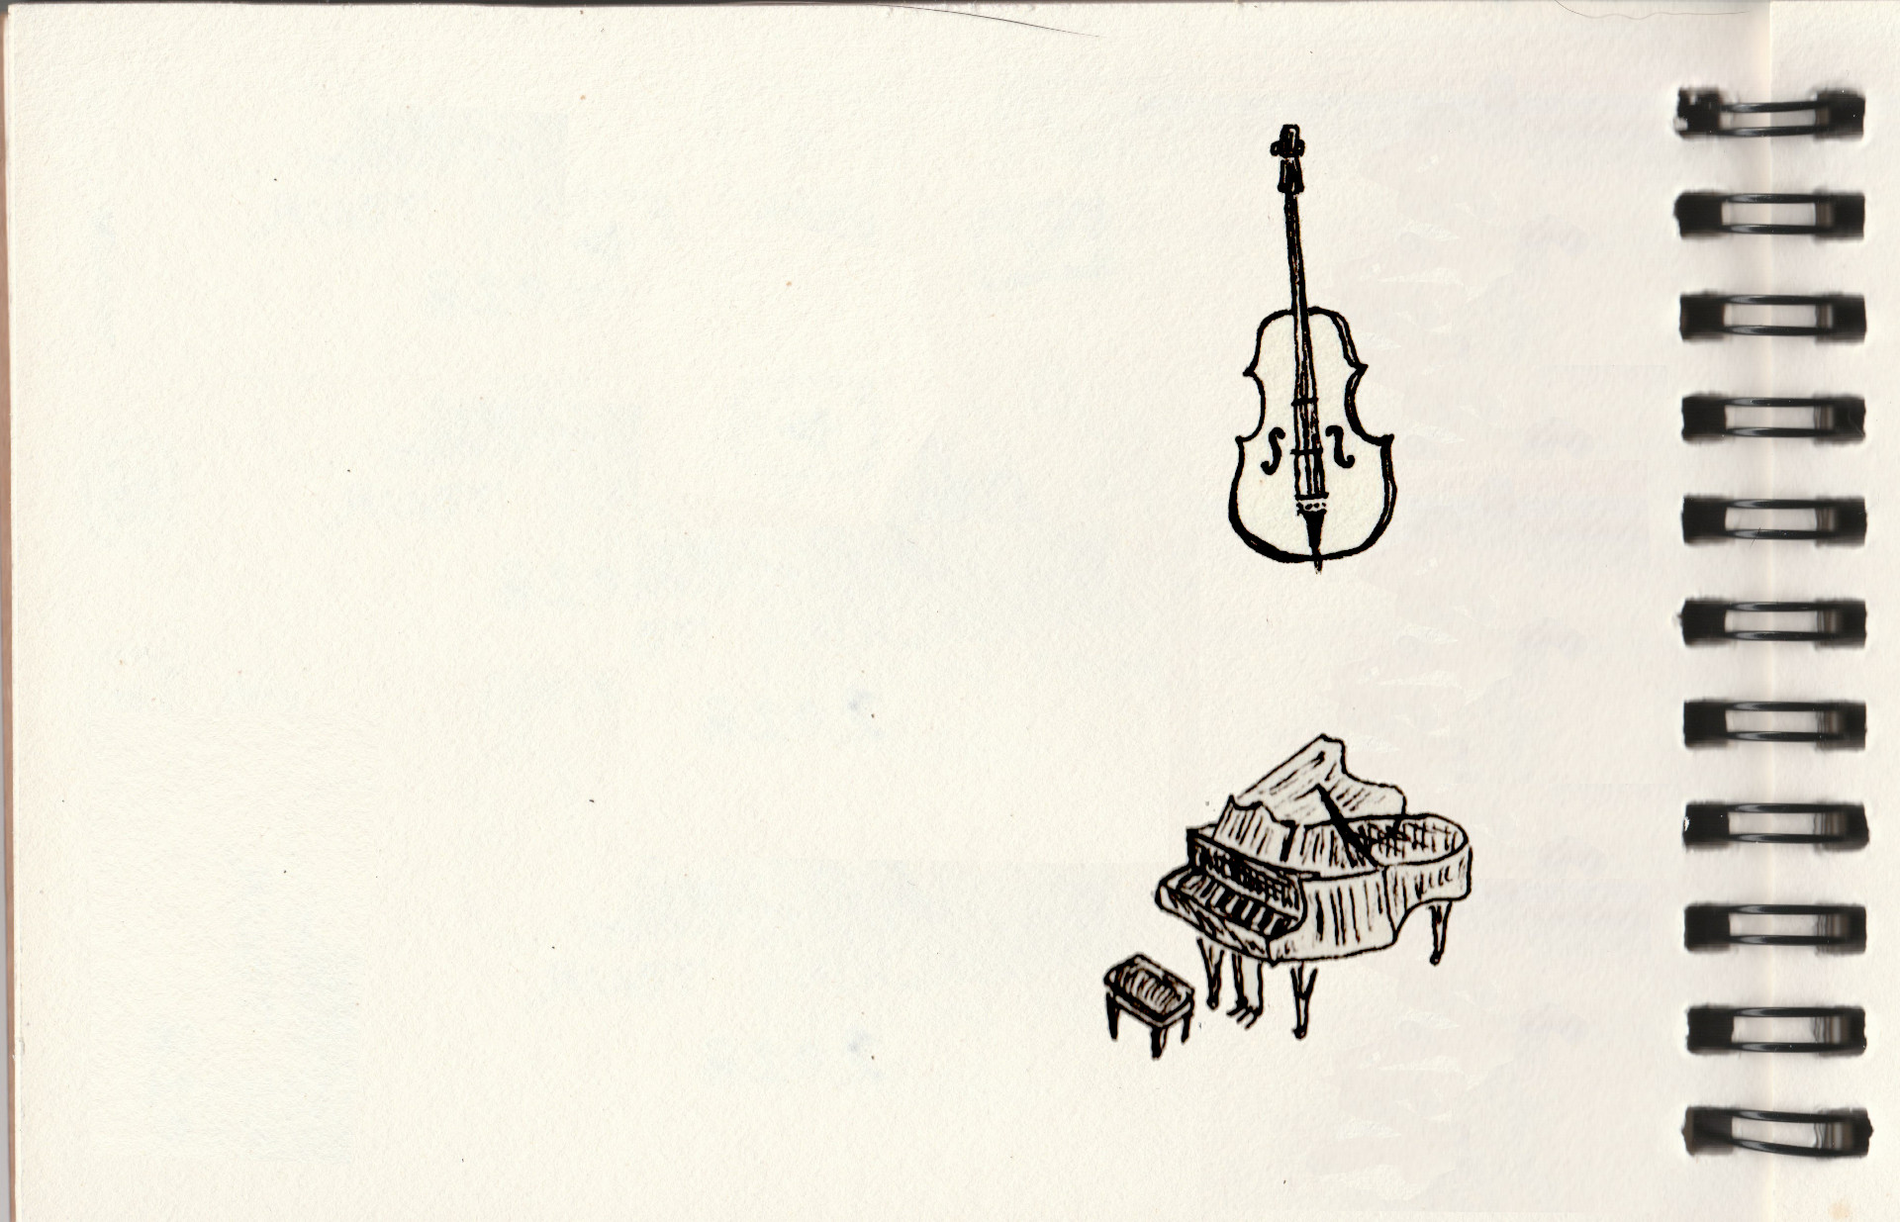
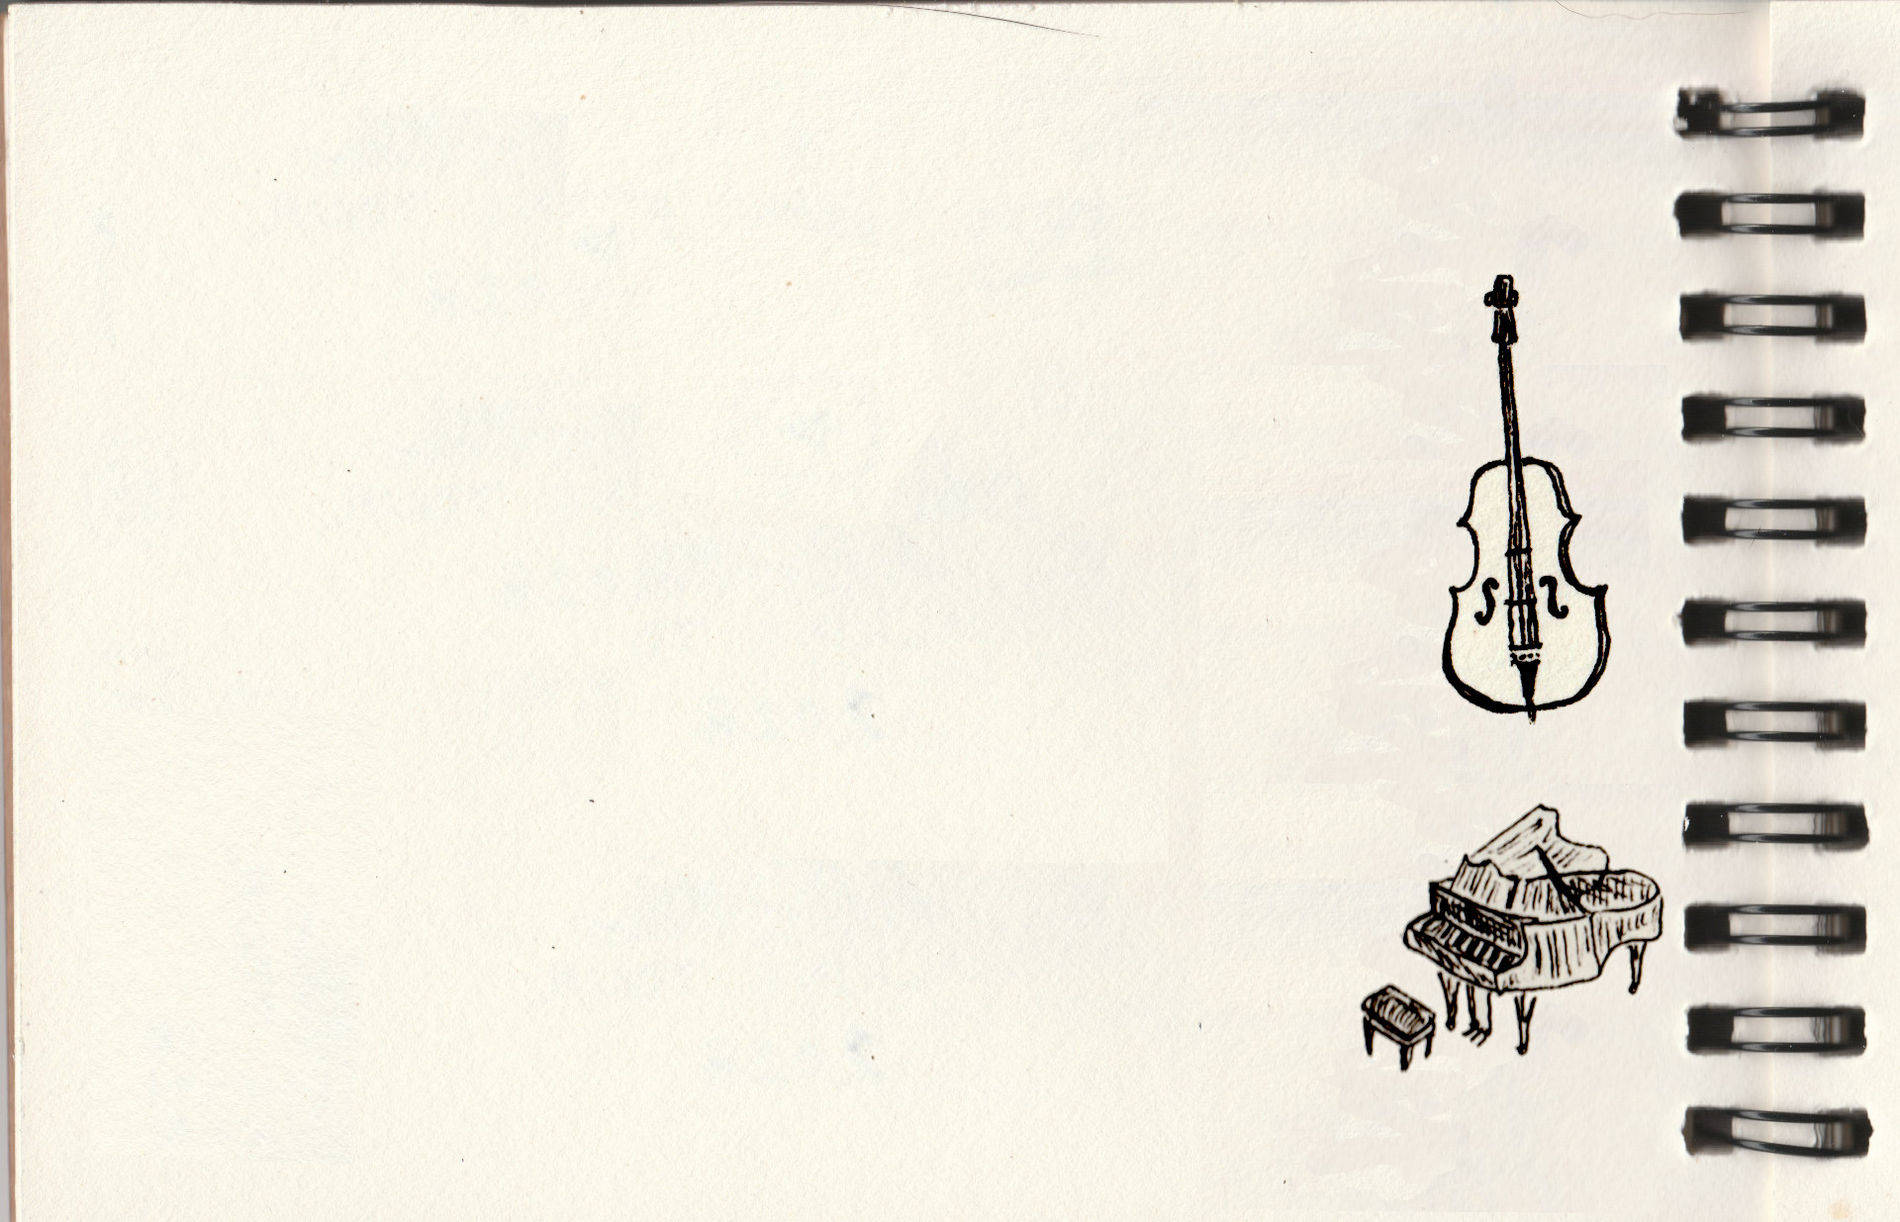
Add files via upload

Changed region(s): [[0.5625, 0.5846, 0.875, 0.8923], [0.625, 0.0923, 0.8438, 0.5846]]

diff --git a/WALKING-TOUR.html b/WALKING-TOUR.html
@@ -23,9 +23,11 @@ each concert will be curated to form a debut album.">
 
         <style>
 
-            @media only screen and (max-width: 1200px), (pointer: coarse) {body {background-image: url(NOTEBOOK.jpeg); background-position: center top; background-size: auto 100vh; background-repeat: repeat; background-attachment: scroll; overflow-x: hidden;}}
+            @media only screen and (max-width: 900px), (pointer: coarse) {body {width: 100vw; height: 100vh; background-image: url(NOTEBOOK.jpeg); background-position: center top; background-size: auto 100vh; background-repeat: repeat; background-attachment: scroll; overflow-x: hidden;}}
 
-            @media only screen and (min-width: 1200px) {body {background-image: url(NOTEBOOK.jpeg); background-position: center; background-size: contain; background-repeat: no-repeat; background-attachment: fixed;}}
+            @media only screen and (min-width: 900px) and (max-width: 1500px), (pointer: coarse) {body {width: 100vw; height: 100vh; background-image: url(NOTEBOOK.jpeg); background-position: center top; background-size: auto 100vh; background-repeat: repeat; background-attachment: scroll; overflow-x: hidden;}}
+
+            @media only screen and (min-width: 1500px) {body {width: 100vw; height: 100vh; background-image: url(NOTEBOOK.jpeg); background-position: center; background-size: contain; background-repeat: no-repeat; background-attachment: fixed;}}
 
             
             
@@ -52,37 +54,53 @@ each concert will be curated to form a debut album.">
         
         
         <div class="block">
-            <p>In spring 2026, EMRYS will embark on a week-long walking
-and music tour across the Lake District mountains.
-The tour is funded by the ‘Principals Award for Innovation’
-received by the trio’s drummer Sam, on graduating from
-Trinity Laban Conservatoire of Music and Dance.
-The tour will see EMRYS trek for 7 days across the expanse of
-the lake district, performing their music in local community
-spaces, schools, churches and village halls. Recordings from
-each concert will be curated to form a debut album.
+
+            <h1>Lake District Walking and Music Tour - April 2026</h1>
+
+            <p>…Walking to a venue near you… 
 <br><br>
-PLACE 1 - DATE - <a href=""><span class="mailing-list hover-effect">BOOK TICKETS</span></a>
+In spring 2026, EMRYS will embark on a ‘Walking and Music Tour’ of  the Lake District.
+<br><br>
+Inspired by Poet Laureate Simon Armitage’s book ‘Walking Home’ and a quest to create music in resonance with our surrounding landscapes, we’ll travel across the mountains, valleys and waterways of the Lake District on foot, with each day's walk leading to a concert in churches, village halls, schools, and community spaces. 
+<br><br>
+Recordings from each concert will form our debut album. 
+<br><br>
+The tour is partly funded by the ‘Principals Award for Innovation’ received by Sam (EMRYS drummer), upon his graduation from Trinity Laban Conservatoire of Music and Dance in 2025. <a href="https://www.trinitylaban.ac.uk/story/innovation-awards/"><span class="mailing-list">Read More Here</span></a>
+<br><br>
+Anyone is welcome to join us on each day's walk. (Scroll down to find details of each route and start time.)
+<br><br></p>
+<h1>The Concerts</h1>
+<p><i>Please note, there is no charge to come to the concerts. We’ll be taking ‘donations towards the project at the venue’. All are welcome. You can reserve a seat on each eventbrite page for each corresponding venue.</i>
+               <br><br><br>
+    Thursday 16th April - Penrith Methodist Church - <a href=""><span class="mailing-list hover-effect">Book Tickets</span></a>
 
-                <br><br>
+                <br><br><br>
 
-                PLACE 2 - DATE - <a href=""><span class="mailing-list hover-effect">BOOK TICKETS</span></a>
+                Saturday 18th April - Cockermouth United Reform Church - <a href=""><span class="mailing-list hover-effect">Book Tickets</span></a>
 
-                <br><br>
+                <br><br><br>
 
-                PLACE 3 - DATE - <a href=""><span class="mailing-list hover-effect">BOOK TICKETS</span></a>
+                Sunday 19th April - Grasmere Village Hall - <a href=""><span class="mailing-list hover-effect">Book Tickets</span></a>
 
-                <br><br>
+                <br><br><br>
 
-                PLACE 4 - DATE - <a href=""><span class="mailing-list hover-effect">BOOK TICKETS</span></a>
+                Monday 20th April - Coniston - <a href=""><span class="mailing-list hover-effect">Book Tickets</span></a>
 
-                <br><br>
+                <br><br><br>
 
-                PLACE 5 - DATE - <a href=""><span class="mailing-list hover-effect">BOOK TICKETS</span></a>
+                Tuesday 21st April - Swarthmoor Hall - <a href=""><span class="mailing-list hover-effect">Book Tickets</span></a>
 
-                <br><br>
+                <br><br><br>
 
-</p>
+                Wednesday 22nd April - Barrow - <a href=""><span class="mailing-list hover-effect">Book Tickets</span></a>
+
+                <br><br><br>
+
+                Thursday 23rd April - Kendal, Ghyllside Primary School - <a href=""><span class="mailing-list hover-effect">Book Tickets</span></a>
+
+                <br><br><br>
+
+            </p>
         </div>
         
 

diff --git a/style.css b/style.css
@@ -31,13 +31,11 @@
 
 @media only screen and (max-width: 420px), (pointer: coarse) {.logo {width: 24vmax; filter: sepia(100%) saturate(100%); position: absolute; transform: translate(-40%, -50%);}}
 
-@media only screen and (max-width: 1500px), (pointer: coarse) {.block {text-justify: center; padding-top: 14vh; padding-bottom: 10vh;}}
+@media only screen and (max-width: 600px), (pointer: coarse) {.block {text-justify: center; padding-top: 14vh; padding-bottom: 10vh; padding-right: 2%}}
             
-@media only screen and (max-width: 420px), (pointer: coarse) {h1 {font-size: 12vmin}}
+@media only screen and (max-width: 420px), (pointer: coarse) {h1 {font-size: 10vmin}}
 
-@media only screen and (max-width: 1500px), (pointer: coarse) {p {padding-left: 2%;}}
-
-@media only screen and (max-width: 420px), (pointer: coarse) {p {font-size: 6vmin}}
+@media only screen and (max-width: 420px), (pointer: coarse) {p {font-size: 6vmin;}}
 
 @media only screen and (max-width: 420px), (pointer: coarse) {.link-pic {position: absolute; top: 20%; left: 50%; transform: translate(-50%, -50%); max-width: 90vmax; opacity: 0}
             }
@@ -73,8 +71,14 @@
 }
 
 /*pointer coarse*/
-@media only screen and (min-width: 900px) and (max-width: 1500px) {.header-blur {position: fixed; z-index: 10; top: 0; left: 0; right: 0; padding-left: 5vw; padding-right: 5vw; display: grid; grid-template-columns: 1fr 1fr 1fr; align-items: center; justify-items: center;}
+@media only screen and (min-width: 900px) and (max-width: 1500px) and (pointer: coarse) {.header-blur {position: fixed; z-index: 10; top: 0; left: 0; right: 0; padding-left: 5vw; height: 23vh; padding-right: 5vw; display: grid; grid-template-columns: 1fr 1fr 1fr; align-items: center; justify-items: center;  mask: linear-gradient( black, black, black, black, transparent); backdrop-filter: blur(7px); height: 17vh;}
 }
+
+@media only screen and (min-width: 900px) and (max-width: 1500px) and (pointer: fine) {.header-blur {position: fixed; z-index: 10; top: 0; left: 0; right: 0; padding-left: 5vw; height: 23vh; padding-right: 5vw; display: grid; grid-template-columns: 1fr 1fr 1fr; align-items: center; justify-items: center;  mask: linear-gradient( black, black, black, black, transparent); backdrop-filter: blur(7px); height: 17vh;}
+}
+
+@media only screen and (min-width: 600px) and (max-width: 1500px) {.block {text-justify: center; padding-top: 15vh; padding-left: 11vw; padding-right: 20vw; }}
+      
 
 
 
@@ -95,10 +99,10 @@
 @media only screen and (min-width: 1500px) {.menu-blur {z-index: 10; position: fixed; bottom: 0; left: 0; right: 0; padding-bottom: 2vh; padding-left: 10vw; padding-right: 10vw; display: grid; grid-template-columns: 1fr 1fr 1fr; align-items: center; justify-items: center;}
 }
 
-@media only screen and (min-width: 1500px) {.header {position: fixed; z-index: 10; top: 11vh; left: 0; right: 0; padding-left: 14vw; padding-right: 13vw; display: grid; grid-template-columns: 1fr 1fr 1fr; align-items: center; justify-items: center;}
+@media only screen and (min-width: 1500px) {.header {position: fixed; z-index: 10; height: 23vh; top: 0; left: 0; right: 0; padding-left: 14vw; padding-right: 13vw; display: grid; grid-template-columns: 1fr 1fr 1fr; align-items: center; justify-items: center;}
 }
 
-@media only screen and (min-width: 1500px) {.header-blur {position: fixed; z-index: 10; top: 11vh; left: 0; right: 0; padding-left: 14vw; padding-right: 13vw; display: grid; grid-template-columns: 1fr 1fr 1fr; align-items: center; justify-items: center;}
+@media only screen and (min-width: 1500px) {.header-blur {position: fixed; z-index: 10; top: 0; left: 0; right: 0; padding-left: 14vw; padding-right: 13vw; display: grid; grid-template-columns: 1fr 1fr 1fr; align-items: center; justify-items: center;  mask: linear-gradient( black, black, black, black, transparent); backdrop-filter: blur(7px); height: 23vh;}
 }
 
 @media only screen and (min-width: 1500px) {.contactinfo {position: absolute; transform: translate(0%, 100%); margin-right: 17vw; margin-left: 17vw; }}
@@ -123,13 +127,13 @@
 @media only screen and (min-width: 420px) {.link-pic {position: absolute; top: 20%; left: 50%; transform: translate(-50%, -50%); max-height: 70vmin; opacity: 1}
             }
             
- @media only screen and (min-width: 1500px) {.block {position: absolute; text-justify: center; margin-right: 25vw; margin-left: 19vw; margin-top: 20vh;}}
+@media only screen and (min-width: 1500px) {.block {position: absolute; text-justify: center; margin-right: 25vw; margin-left: 19vw; margin-top: 20vh;}}
 
 @media only screen and (min-width: 500px) {.center {
     position: relative;
     padding-top: 20vh; display: flex; justify-content: center; align-items: center;}}
 
-h1 {font-family: Arial, Helvetica, sans-serif; color: rgb(255, 255, 255); filter: sepia(100%) saturate(100%);}
+h1 {font-family: Cambria, Cochin, Georgia, Times, 'Times New Roman', serif; color: rgb(0, 0, 0); z-index: 0;}
             
 a {text-decoration: none;}
 

diff --git a/UPCOMING-GIGS.html b/UPCOMING-GIGS.html
@@ -15,11 +15,12 @@
 
         <style>
 
-            @media (max-width: 1200px), (pointer: coarse) {body {background-image: url(NOTEBOOK.jpeg); background-position: center; background-size: cover; background-repeat: no-repeat; background-attachment: fixed;}}
+            @media only screen and (max-width: 900px), (pointer: coarse) {body {width: 100vw; height: 100vh; background-image: url(NOTEBOOK.jpeg); background-position: center top; background-size: auto 100vh; background-repeat: repeat; background-attachment: scroll; overflow-x: hidden;}}
 
-            @media (min-width: 1200px) {body {background-image: url(NOTEBOOKGIGS.jpg); background-position: center; background-size: 70%; background-repeat: no-repeat; background-attachment: fixed;}}
+            @media only screen and (min-width: 900px) and (max-width: 1500px), (pointer: coarse) {body {width: 100vw; height: 100vh; background-image: url(NOTEBOOKGIGS.jpg); background-position: center top; background-size: auto 100vh; background-repeat: repeat; background-attachment: scroll; overflow-x: hidden;}}
 
-            
+            @media only screen and (min-width: 1500px) {body {width: 100vw; height: 100vh; background-image: url(NOTEBOOKGIGS.jpg); background-position: center; background-size: contain; background-repeat: no-repeat; background-attachment: fixed;}}
+
             
 
         </style>
@@ -47,31 +48,55 @@
         
         <div class="block">
 
-             
+             <h1>Upcoming Concerts</h1>
 
             <p>
 
-                PLACE 1 - DATE - <a href=""><span class="mailing-list hover-effect">BOOK TICKETS</span></a>
+                23rd January 8pm - Zeffirellis Jazz Bar, Ambleside - <a href="https://www.zeffirellis.com/live-music/2026-temp-20-3"><span class="mailing-list hover-effect">Book Tickets</span></a>
 
-                <br><br>
+                <br><br><br>
 
-                PLACE 2 - DATE - <a href=""><span class="mailing-list hover-effect">BOOK TICKETS</span></a>
+                28th January 7.30pm - Vortex Jazz Club, Dalston - <a href="https://www.vortexjazz.co.uk/event/emrys/"><span class="mailing-list hover-effect">Book Tickets</span></a>
 
-                <br><br>
+                <br><br><br>
 
-                PLACE 3 - DATE - <a href=""><span class="mailing-list hover-effect">BOOK TICKETS</span></a>
+                8th February 8pm - Green Note, Camden - <a href="https://www.greennote.co.uk/production/emrys/"><span class="mailing-list hover-effect">Book Tickets</span></a>
 
-                <br><br>
+                <br><br><br>
+                </p>
 
-                PLACE 4 - DATE - <a href=""><span class="mailing-list hover-effect">BOOK TICKETS</span></a>
+                <h1>Lake District Walking and<br>Music Tour - April 2026</h1>
 
-                <br><br>
+                <p>
 
-                PLACE 5 - DATE - <a href=""><span class="mailing-list hover-effect">BOOK TICKETS</span></a>
+                Thursday 16th April - Penrith Methodist Church - <a href=""><span class="mailing-list hover-effect">Book Tickets</span></a>
 
-                <br><br>
+                <br><br><br>
 
-            </p>
+                Saturday 18th April - Cockermouth United Reform Church - <a href=""><span class="mailing-list hover-effect">Book Tickets</span></a>
+
+                <br><br><br>
+
+                Sunday 19th April - Grasmere Village Hall - <a href=""><span class="mailing-list hover-effect">Book Tickets</span></a>
+
+                <br><br><br>
+
+                Monday 20th April - Coniston - <a href=""><span class="mailing-list hover-effect">Book Tickets</span></a>
+
+                <br><br><br>
+
+                Tuesday 21st April - Swarthmoor Hall - <a href=""><span class="mailing-list hover-effect">Book Tickets</span></a>
+
+                <br><br><br>
+
+                Wednesday 22nd April - Barrow - <a href=""><span class="mailing-list hover-effect">Book Tickets</span></a>
+
+                <br><br><br>
+
+                Thursday 23rd April - Kendal, Ghyllside Primary School - <a href=""><span class="mailing-list hover-effect">Book Tickets</span></a>
+
+                <br><br><br>
+                </p>
         </div>
         
 

diff --git a/ABOUT.html b/ABOUT.html
@@ -15,9 +15,11 @@
 
         <style>
 
-            @media only screen and (max-width: 1200px), (pointer: coarse) {body {background-image: url(NOTEBOOK.jpeg); background-position: center; background-size: cover; background-repeat: no-repeat; background-attachment: fixed;}}
+            @media only screen and (max-width: 900px), (pointer: coarse) {body {width: 100vw; height: 100vh; background-image: url(NOTEBOOK.jpeg); background-position: center top; background-size: auto 100vh; background-repeat: repeat; background-attachment: scroll; overflow-x: hidden;}}
 
-            @media only screen and (min-width: 1200px) {body {background-image: url(NOTEBOOK.jpeg); background-position: center; background-size: 70%; background-repeat: no-repeat; background-attachment: fixed;}}
+            @media only screen and (min-width: 900px) and (max-width: 1500px), (pointer: coarse) {body {width: 100vw; height: 100vh; background-image: url(NOTEBOOK.jpeg); background-position: center top; background-size: auto 100vh; background-repeat: repeat; background-attachment: scroll; overflow-x: hidden;}}
+
+            @media only screen and (min-width: 1500px) {body {width: 100vw; height: 100vh; background-image: url(NOTEBOOK.jpeg); background-position: center; background-size: contain; background-repeat: no-repeat; background-attachment: fixed;}}
 
             
             
@@ -52,6 +54,12 @@
                 Individually Sam, Chris and Isaac have worked with internationally renowned Jazz artists such as Giacomo Smith, Byron Wallen, Joe Webb, Trish Clowes, Hans Koller, Tom Challenger, Laura Jurd and Harry Diplock. EMRYS sees these three young artists combine, bringing their own music and voices to audiences for the first time.
 
             </p>
+            <div class="center" style="padding-bottom: 30vh;">
+        
+            <iframe src="https://www.youtube.com/embed/0AVgMEYE2UQ" title="&quot;Still Heart&quot; by EMRYS" frameborder="0" allow="accelerometer; autoplay; clipboard-write; encrypted-media; gyroscope; picture-in-picture; web-share" referrerpolicy="strict-origin-when-cross-origin" allowfullscreen></iframe>
+
+        
+        </div>
         </div>
         
 

diff --git a/CONTACT.html b/CONTACT.html
@@ -15,11 +15,12 @@
 
         <style>
 
-            @media only screen and (max-width: 1200px), (pointer: coarse) {body {background-image: url(NOTEBOOK.jpeg); background-position: center; background-size: cover; background-repeat: no-repeat; background-attachment: fixed;}}
+            @media only screen and (max-width: 900px), (pointer: coarse) {body {width: 100vw; height: 100vh; background-image: url(NOTEBOOK.jpg); background-position: center top; background-size: auto 100vh; background-repeat: repeat; background-attachment: scroll; overflow-x: hidden;}}
 
-            @media only screen and (min-width: 1200px) {body {background-image: url(NOTEBOOKCONTACT.jpg); background-position: center; background-size: 70%; background-repeat: no-repeat; background-attachment: fixed;}}
+            @media only screen and (min-width: 900px) and (max-width: 1500px), (pointer: coarse) {body {width: 100vw; height: 100vh; background-image: url(NOTEBOOKCONTACT.jpg); background-position: center top; background-size: auto 100vh; background-repeat: no-repeat; background-attachment: scroll; overflow: hidden;}}
 
-            
+            @media only screen and (min-width: 1500px) {body {width: 100vw; height: 100vh; background-image: url(NOTEBOOKCONTACT.jpg); background-position: center; background-size: contain; background-repeat: no-repeat; background-attachment: fixed;}}
+
 
         </style>
 
@@ -44,13 +45,13 @@
         
 
         <div class="block">
-        <p>GET IN TOUCH:<br>emrystrio@gmail.com</p>
+        <p>Email us:<br>emrystrio@gmail.com</p>
         
 
         <br>
 
         
-        <p>SIGN UP TO OUR MAILING LIST&nbsp;<a class="mailing-list hover-effect" href="">&nbsp;HERE&nbsp;</a></p>
+        <p>Sign up to our mailing list&nbsp;<a class="mailing-list hover-effect" href="">&nbsp;here&nbsp;</a></p>
         </div>
 
         

diff --git a/index.html b/index.html
@@ -20,9 +20,9 @@
 
         <style>
 
-            @media only screen and (max-width: 1200px), (pointer: coarse) {body {background-image: url(EMRYSBACKGROUND.jpg); background-position: center top; background-size: auto 100vh; background-repeat: no-repeat; background-attachment: scroll; overflow: hidden;}}
+            @media only screen and (max-width: 1500px), (pointer: coarse) {body {width: 100vw; height: 100vh; background-image: url(EMRYSBACKGROUND.jpg); background-position: center top; background-size: auto 100vh; background-repeat: no-repeat; background-attachment: scroll; overflow: hidden;}}
 
-            @media only screen and (min-width: 1200px) {body {background-image: url(EMRYSBACKGROUND.jpg); background-position: center; background-size: contain; background-repeat: no-repeat; background-attachment: fixed;}}
+            @media only screen and (min-width: 1500px) {body {width: 100vw; height: 100vh; background-image: url(EMRYSBACKGROUND.jpg); background-position: center; background-size: contain; background-repeat: no-repeat; background-attachment: fixed;}}
 
 
         </style>
@@ -58,7 +58,7 @@
 
         <div style="text-align: center;">
 
-        <a href="WATCH.html"><img class="link-pic" src="LINKPIC.jpg" alt=""></a>
+        <a href=""><img class="link-pic" src="LINKPIC.jpg" alt=""></a>
         
         </div>
 
@@ -74,9 +74,7 @@
         
 
         
-        
-        
-   
+           
         
        
 
